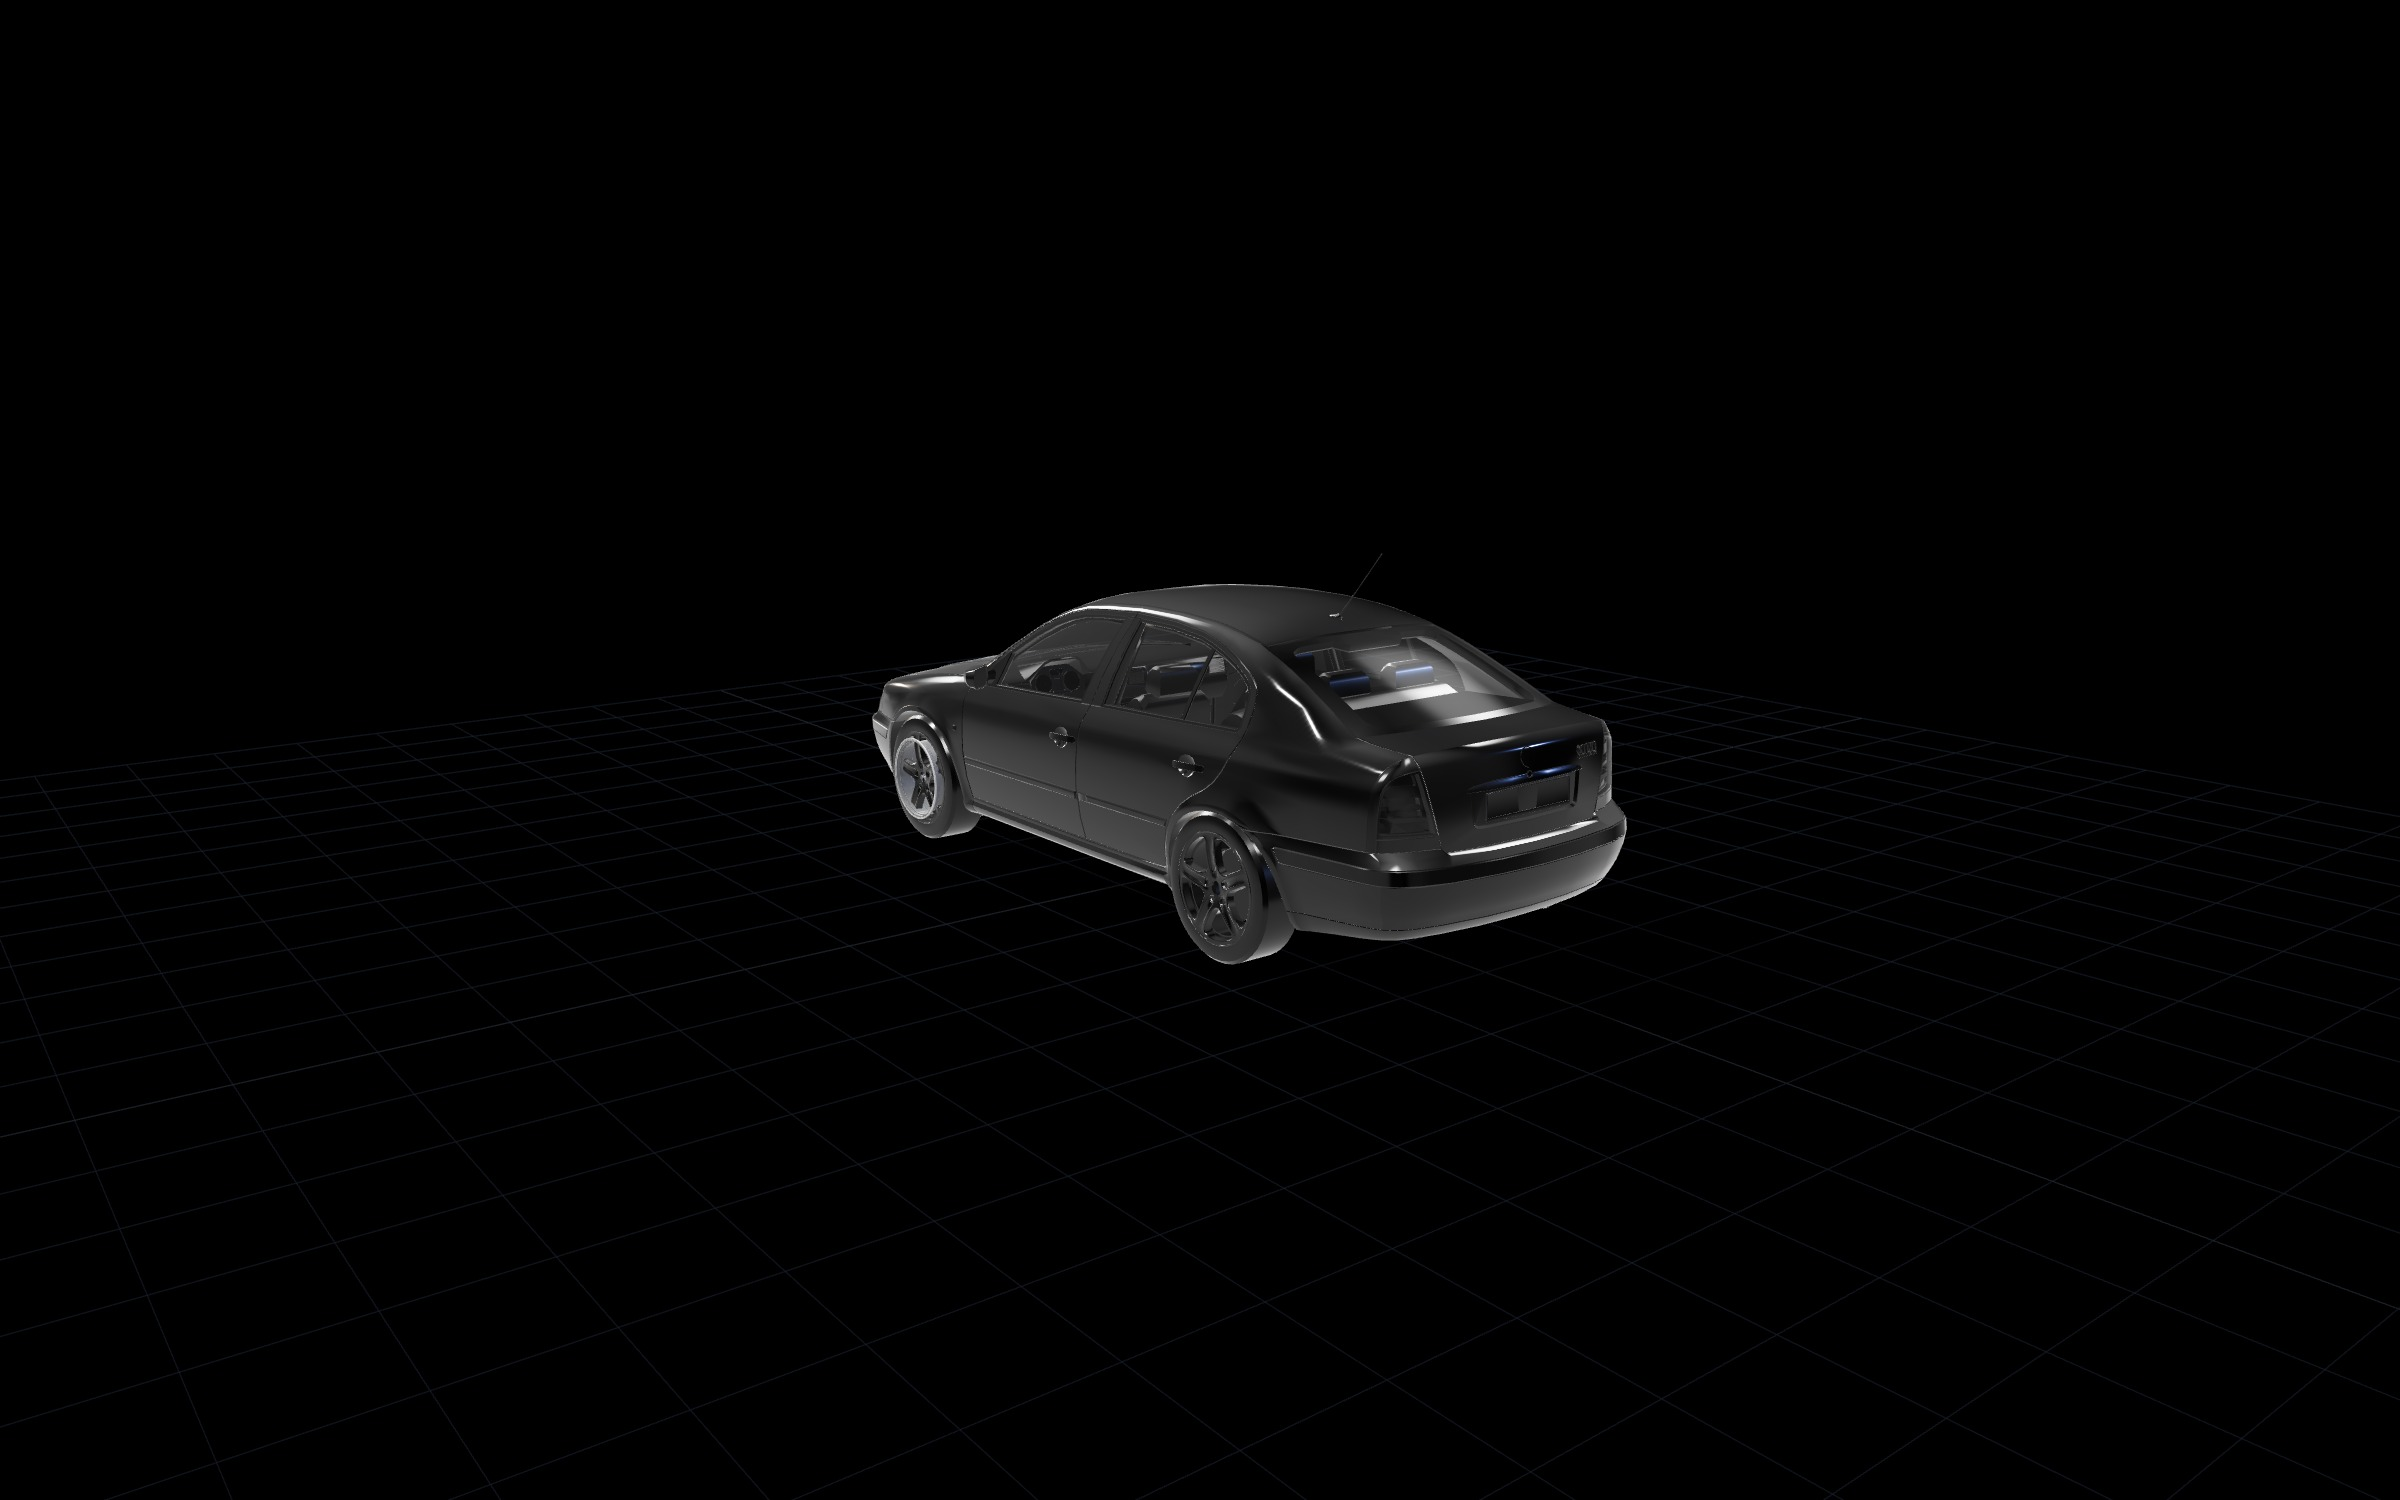
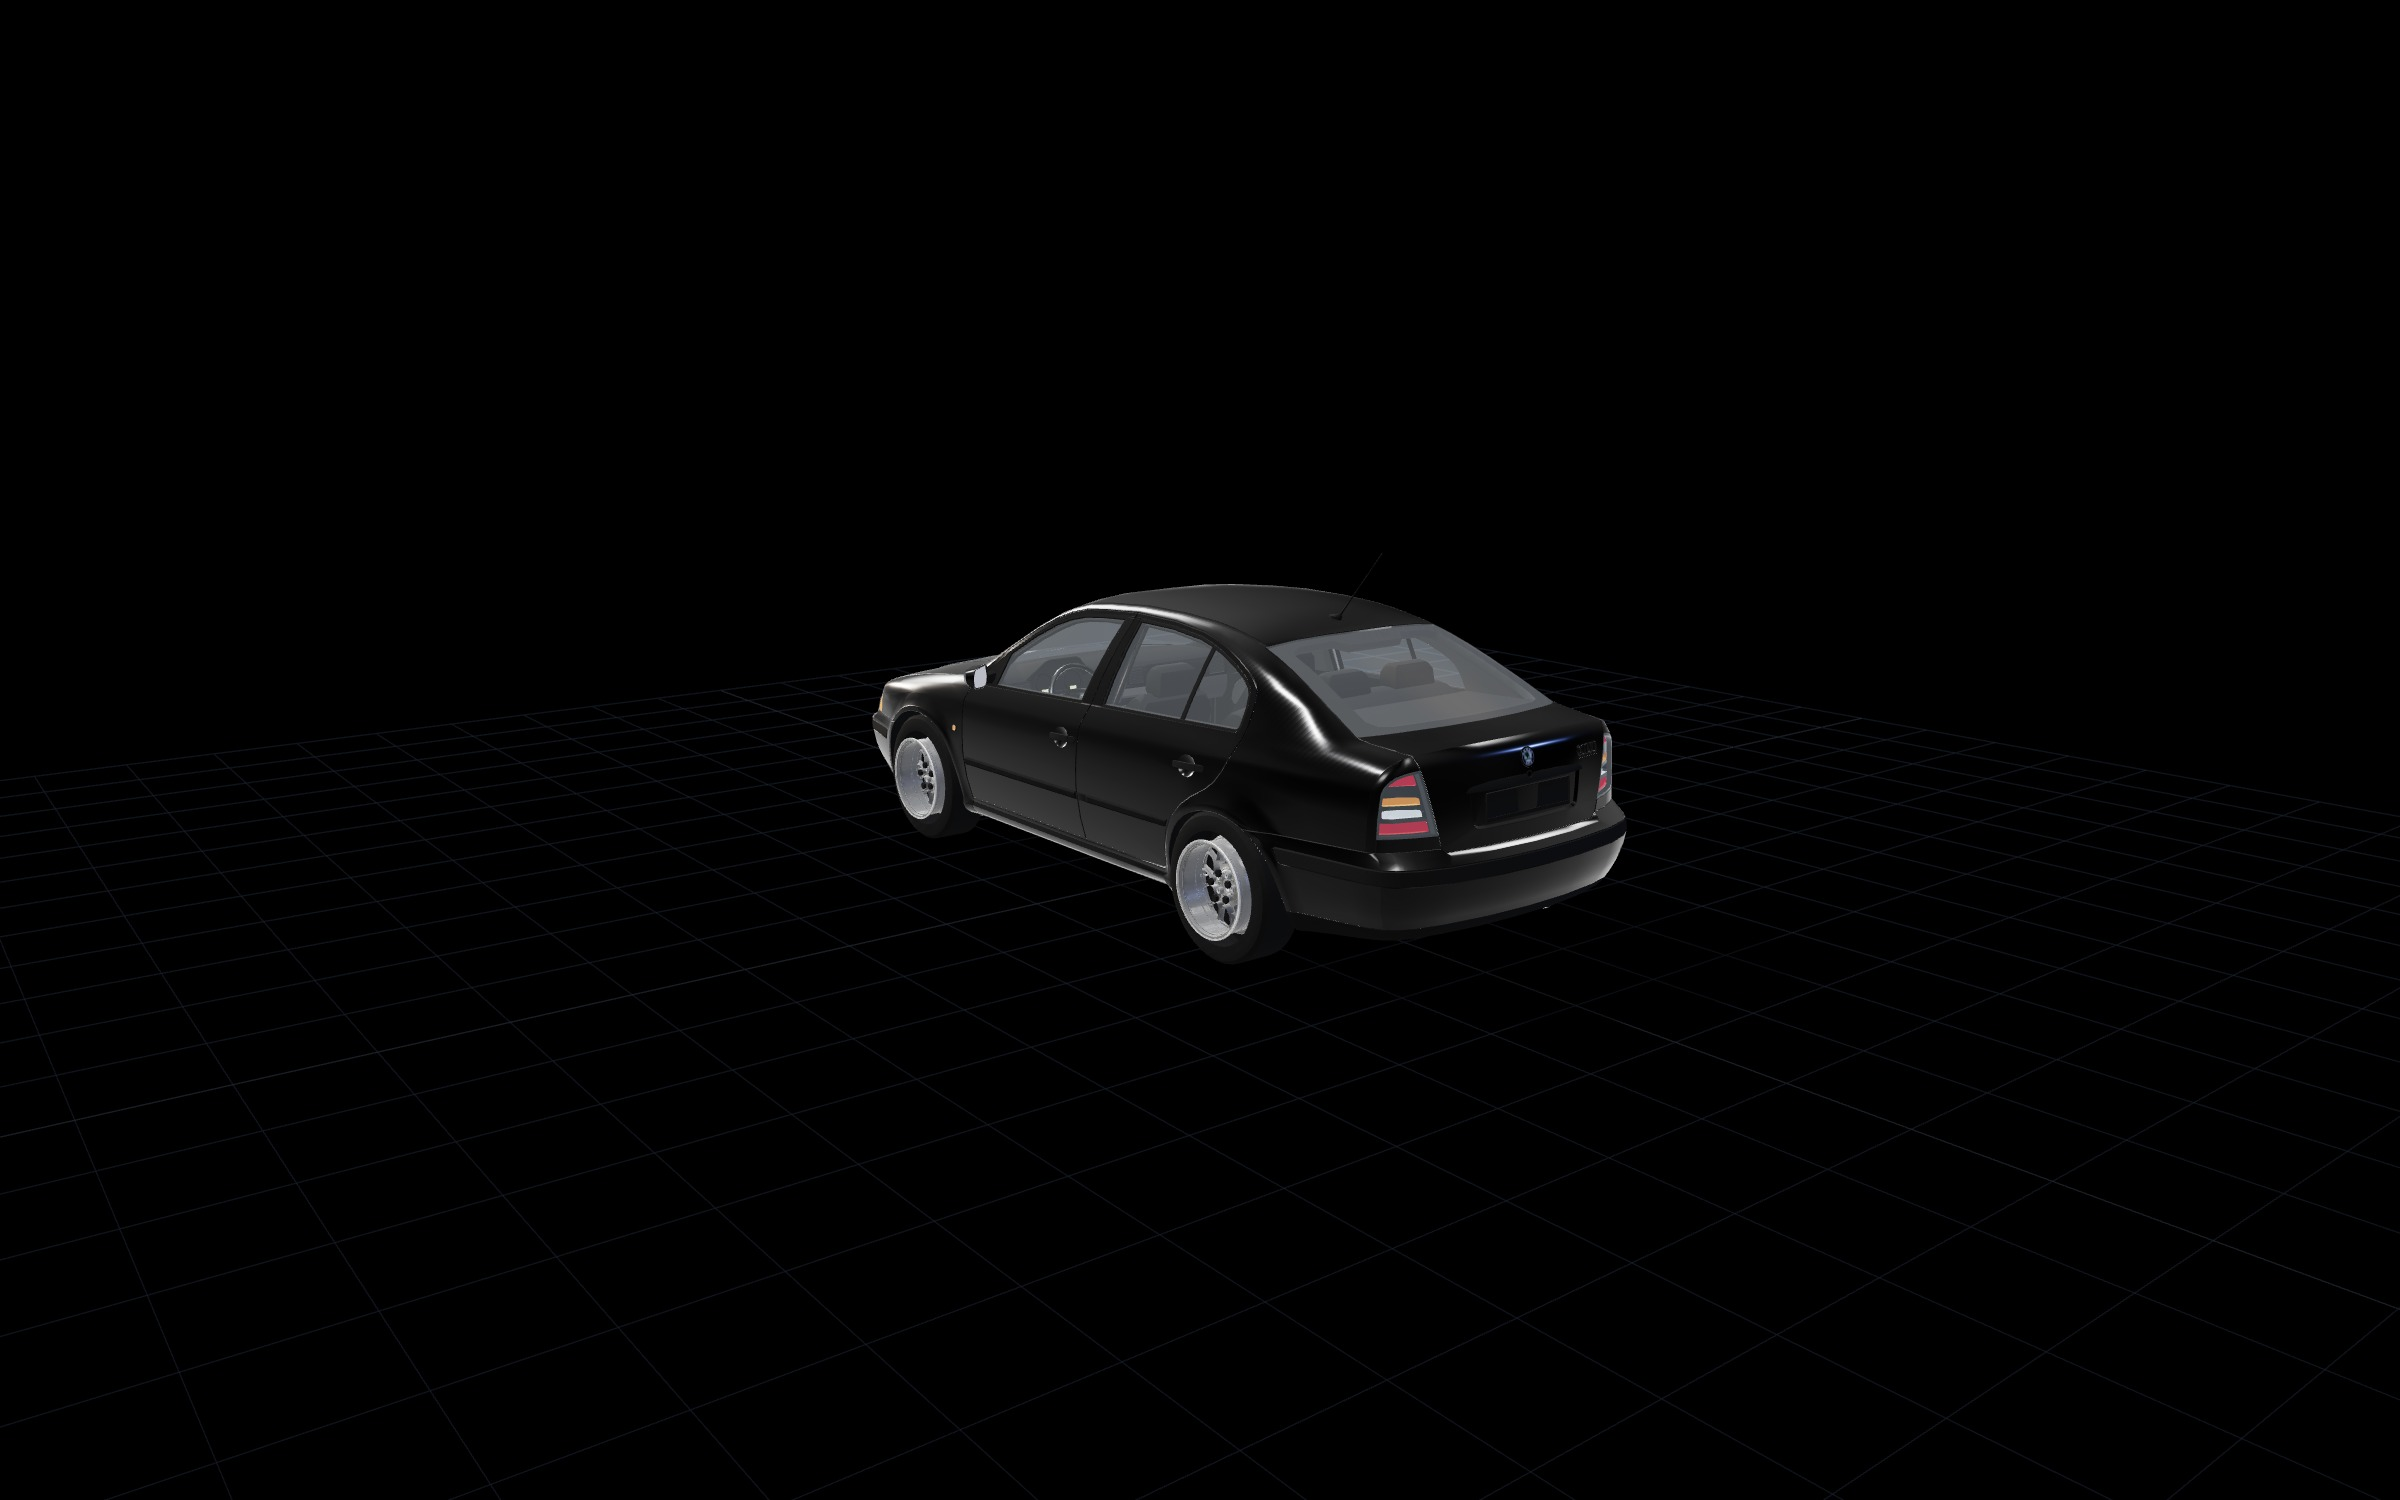
mejora: suelo de estudio con gradiente radial + vineta (la sombra de contacto del coche ya se ve, aspecto showroom)

Changed region(s): [[0.3438, 0.3987, 0.6875, 0.644]]

diff --git a/index.html b/index.html
@@ -448,6 +448,23 @@ async function init3D(){
   const fill=new THREE.DirectionalLight(0x88aaff,0.85); fill.position.set(-5,2,-4); scene.add(fill);
   const rim=new THREE.DirectionalLight(0xffeedd,0.8); rim.position.set(0,1.2,6); scene.add(rim);
 
+  // ★ SUELO DE ESTUDIO: gradiente radial (canvas) para que la sombra de contacto se vea como en un showroom
+  try{
+    const cv=document.createElement('canvas'); cv.width=cv.height=512;
+    const g2=cv.getContext('2d');
+    const rg=g2.createRadialGradient(256,256,20,256,256,256);
+    rg.addColorStop(0,'#2f3442'); rg.addColorStop(0.45,'#1a1f29'); rg.addColorStop(1,'#06080d');
+    g2.fillStyle=rg; g2.fillRect(0,0,512,512);
+    // leve viñeta para centrar la mirada
+    const vg=g2.createRadialGradient(256,256,150,256,256,260);
+    vg.addColorStop(0,'rgba(0,0,0,0)'); vg.addColorStop(1,'rgba(0,0,0,0.55)');
+    g2.fillStyle=vg; g2.fillRect(0,0,512,512);
+    const ftex=new THREE.CanvasTexture(cv);
+    if(THREE.SRGBColorSpace!==undefined && ftex.colorSpace!==undefined) ftex.colorSpace=THREE.SRGBColorSpace;
+    const floor=new THREE.Mesh(new THREE.PlaneGeometry(28,28), new THREE.MeshStandardMaterial({map:ftex, roughness:0.82, metalness:0.15}));
+    floor.rotation.x=-Math.PI/2; floor.position.y=-0.004; floor.receiveShadow=true; scene.add(floor);
+    window.__FLOOR=floor;
+  }catch(_e){ console.warn('suelo estudio', _e); }
   const grid=new THREE.GridHelper(12,24,0x526079,0x31405a); // grid sutil (nada de plano negro)
   grid.material.opacity=0.30; grid.material.transparent=true;
   grid.position.y=0.0; scene.add(grid); // el modelo apoya en y=0 (minY normalizado): el grid no atraviesa la carrocería
